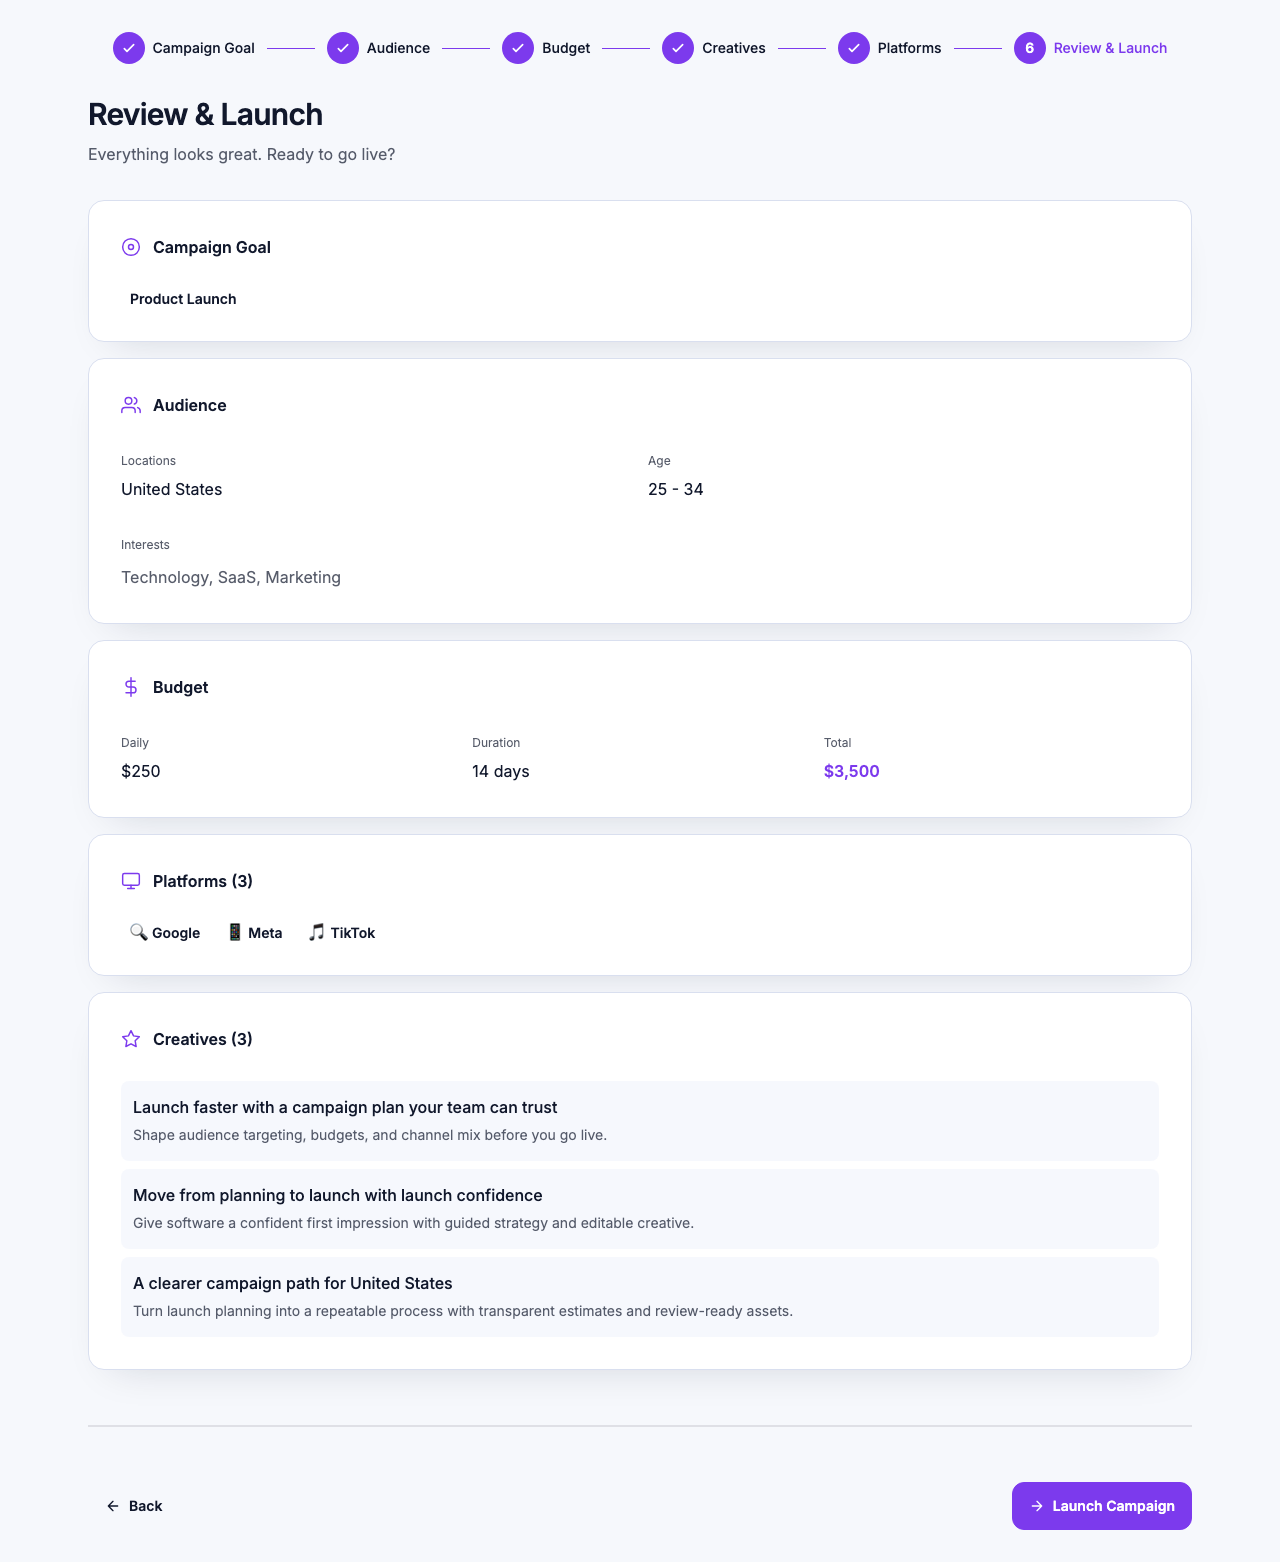
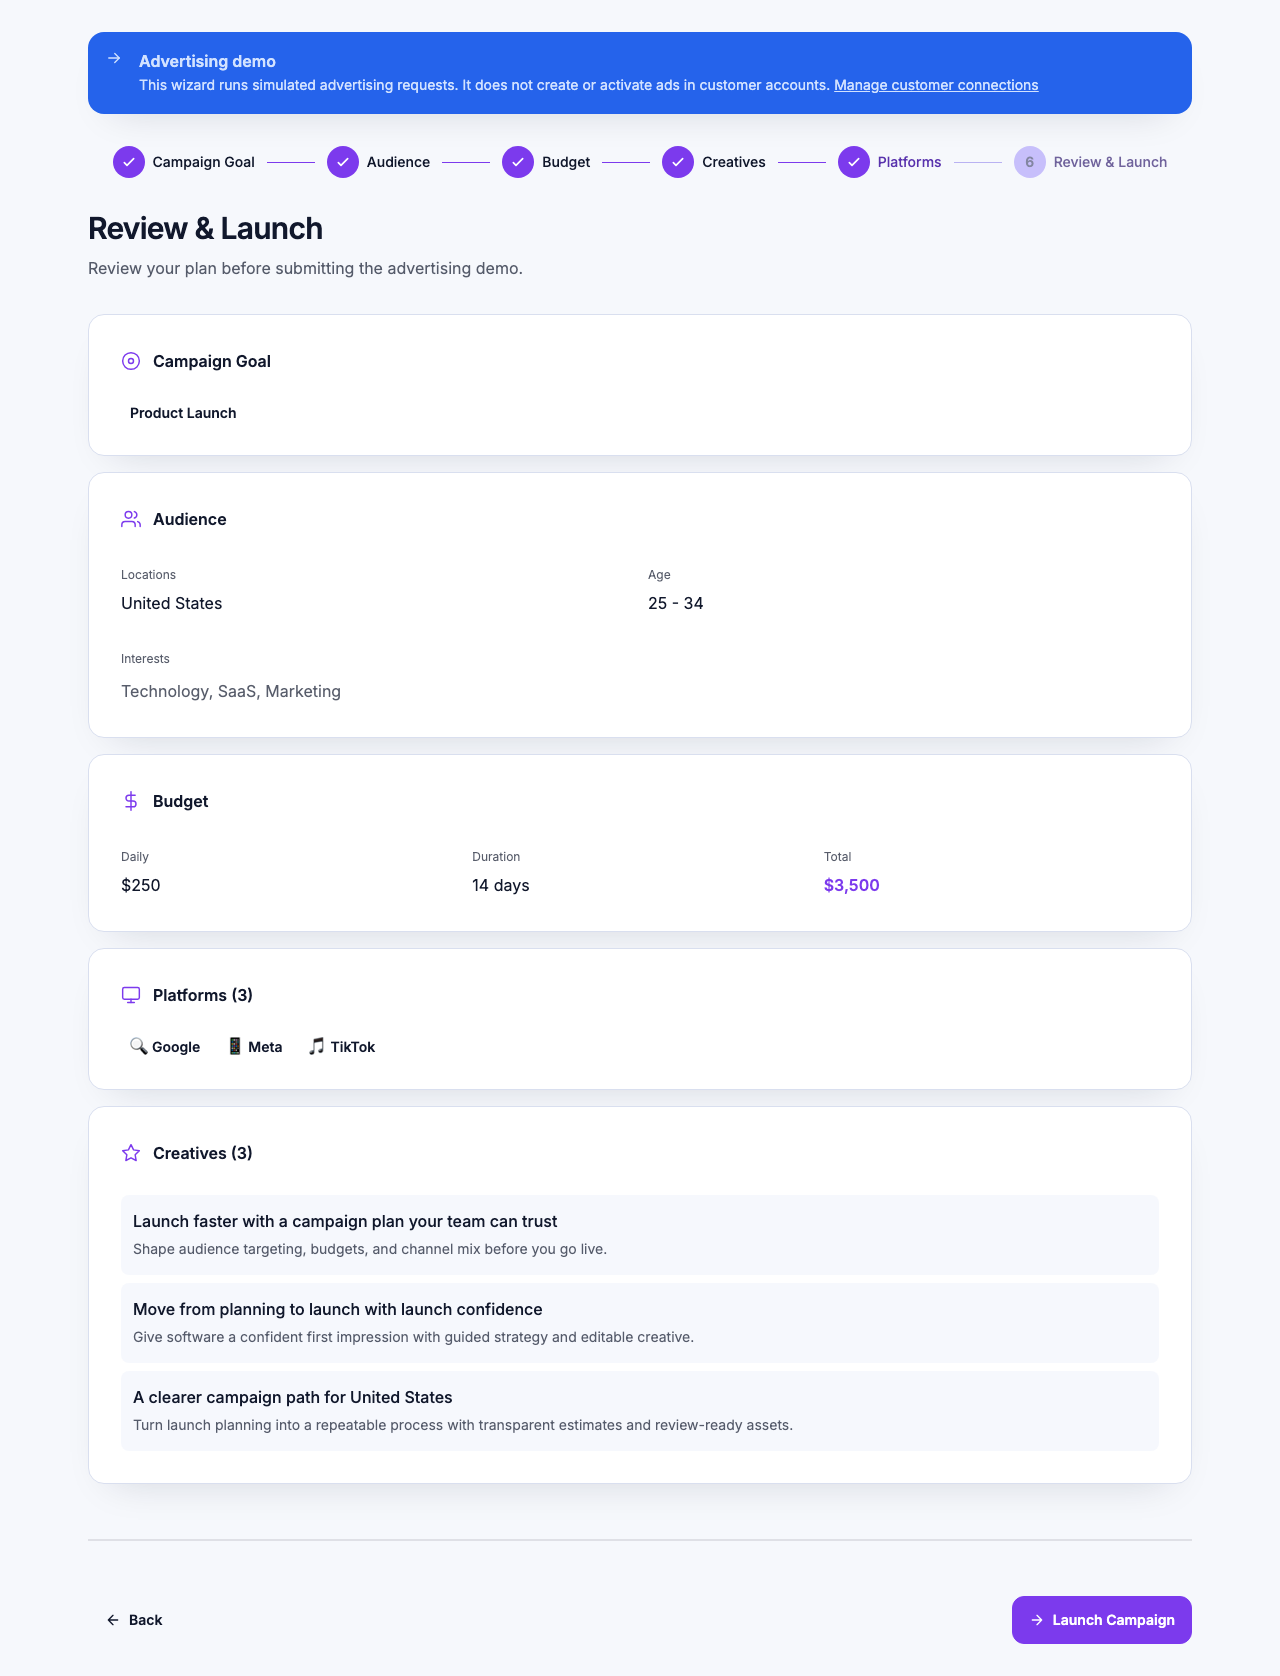
test: save current wizard screenshots as durable evidence

diff --git a/tests/e2e/campaign-wizard.spec.ts b/tests/e2e/campaign-wizard.spec.ts
@@ -92,8 +92,10 @@ test.describe("campaign creation wizard", () => {
       await expect(campaignWizardPage.reviewSummary).toContainText(campaignWizardSeed.editedHeadline);
       await expect(campaignWizardPage.reviewSummary).toContainText("Google");
       await expect(campaignWizardPage.reviewSummary).toContainText("Meta");
+      const reviewScreenshot = testInfo.outputPath("wizard-review.png");
+      await page.screenshot({ path: reviewScreenshot, fullPage: true });
       await testInfo.attach("wizard-review", {
-        body: await page.screenshot({ fullPage: true }),
+        path: reviewScreenshot,
         contentType: "image/png",
       });
       const launchRequest = page.waitForRequest((request) =>
@@ -116,8 +118,10 @@ test.describe("campaign creation wizard", () => {
       });
       await expect(campaignWizardPage.launchResult).toContainText("Campaign demo saved");
       await expect(campaignWizardPage.launchResult).toContainText("Uniform payload: confirmed");
+      const receiptScreenshot = testInfo.outputPath("wizard-launch-receipt.png");
+      await page.screenshot({ path: receiptScreenshot, fullPage: true });
       await testInfo.attach("wizard-launch-receipt", {
-        body: await page.screenshot({ fullPage: true }),
+        path: receiptScreenshot,
         contentType: "image/png",
       });
     });
